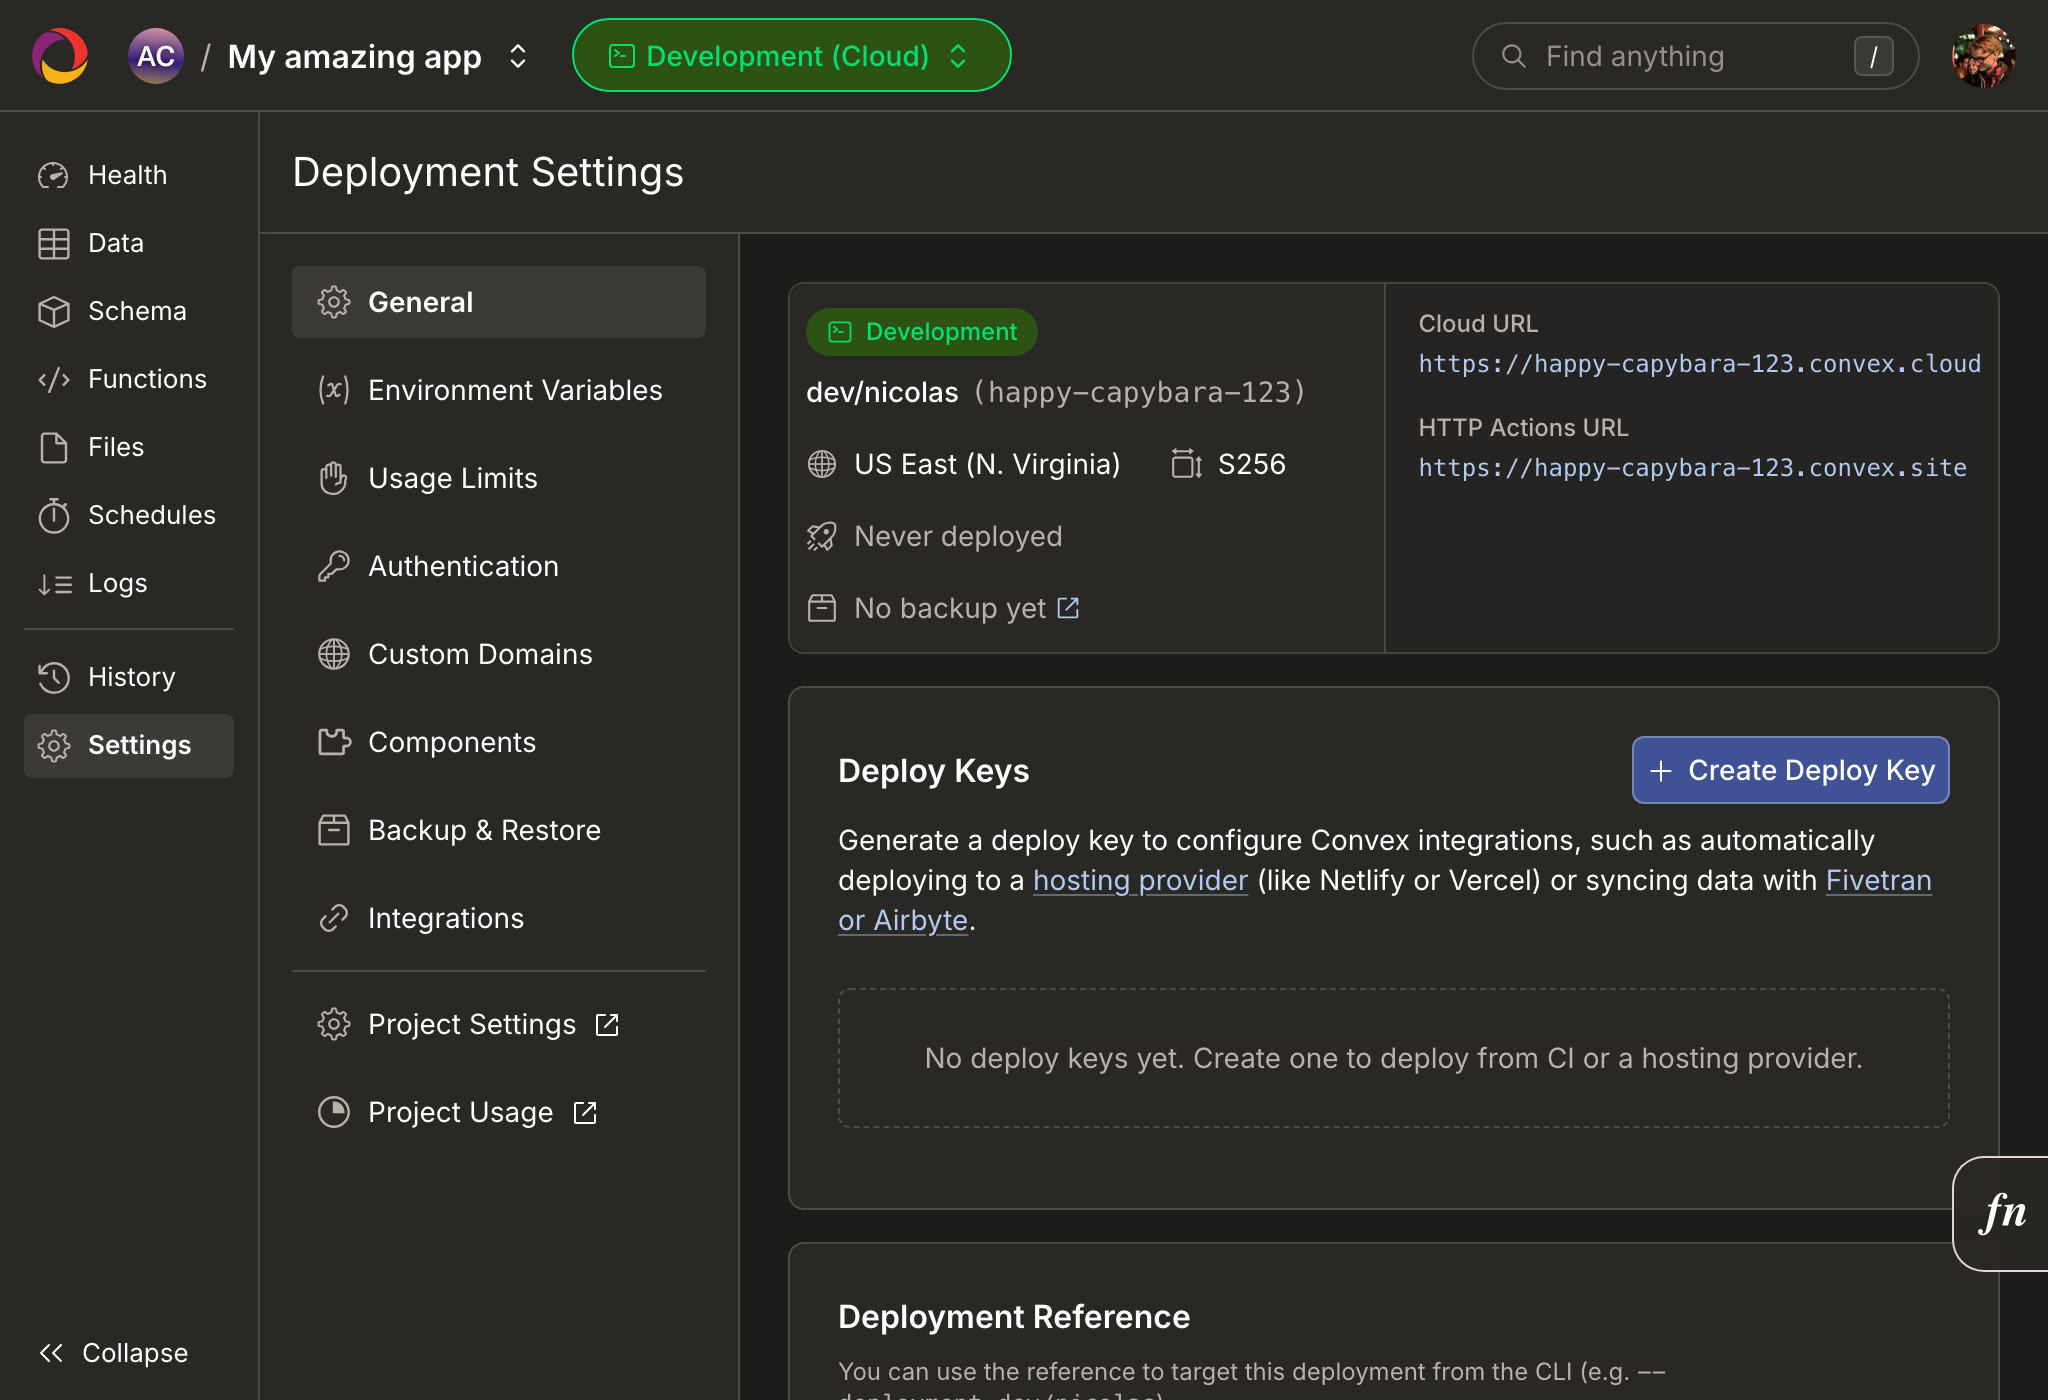
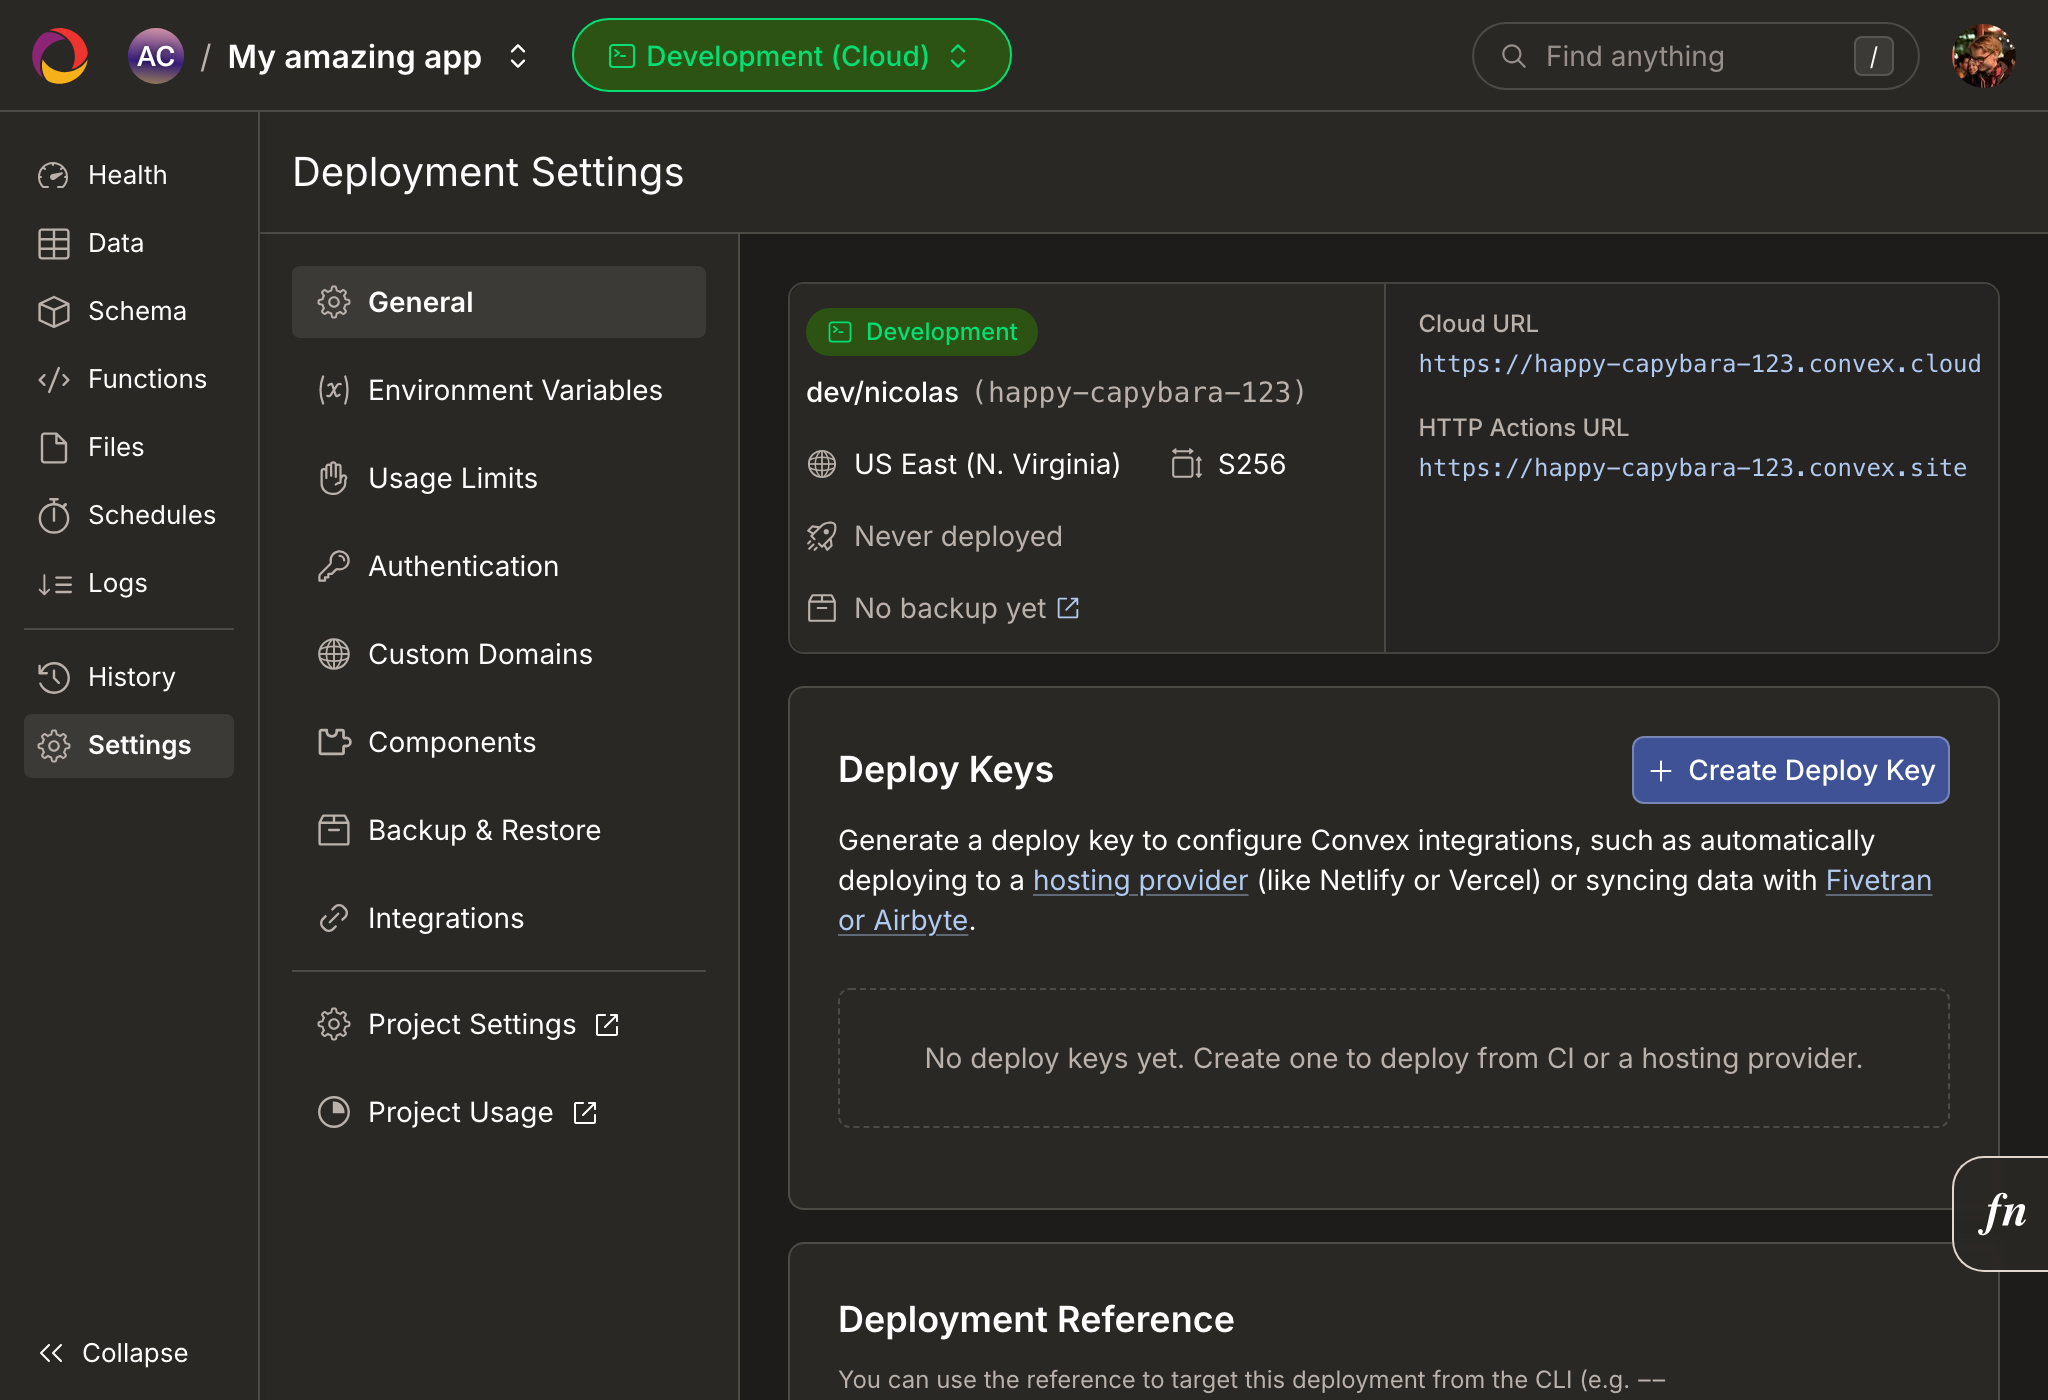
Dashboard: make deployment settings sections h3 for consistency + a11y (#61893)
This fixes an inconsistency in the way this page looks, and also improves accessibility by fixing the title hierarchy.

GitOrigin-RevId: 8e3a91a5ca800e9f54d0e0a3a7469000b30b9ba3

Changed region(s): [[0.4062, 0.9214, 0.8125, 1.0], [0.4062, 0.5221, 0.5, 0.5836]]

diff --git a/npm-packages/dashboard/src/components/deploymentSettings/DeployKeysForDeployment.tsx b/npm-packages/dashboard/src/components/deploymentSettings/DeployKeysForDeployment.tsx
@@ -116,7 +116,7 @@ export function DeployKeysForDeployment() {
     return (
       <div id={DEPLOYMENT_SETTINGS_SECTIONS.deployKeys.id} className="w-full">
         <div className="mb-2 flex w-full items-center justify-between">
-          <h4>Deploy Keys</h4>
+          <h3>Deploy Keys</h3>
         </div>
         <NoPermissionMessage
           message="You do not have permission to view deploy keys in this deployment."
@@ -153,6 +153,7 @@ export function DeployKeysForDeployment() {
       {team && deployment && (
         <DeploymentAccessTokenList
           header="Deploy Keys"
+          headingLevel="h3"
           buttonProps={{
             deploymentType,
             getAdminKey: async (

diff --git a/npm-packages/dashboard/src/components/deploymentSettings/DeploymentAdvancedSettings.tsx b/npm-packages/dashboard/src/components/deploymentSettings/DeploymentAdvancedSettings.tsx
@@ -364,7 +364,7 @@ function TriStateSettingSheet({
 
   return (
     <Sheet id={id}>
-      <h4 className="mb-2">{title}</h4>
+      <h3 className="mb-2">{title}</h3>
       <p className="mb-4 text-xs text-content-secondary">{description}</p>
       <div className="flex flex-col gap-3">
         <Tooltip
@@ -483,7 +483,7 @@ export function DeploymentExpirySheet({
 
   return (
     <Sheet id={DEPLOYMENT_SETTINGS_SECTIONS.deploymentExpiry.id}>
-      <h4 className="mb-2">Deployment Expiry</h4>
+      <h3 className="mb-2">Deployment Expiry</h3>
       <p className="mb-4 text-xs text-content-secondary">
         Set a time at which this deployment will be automatically deleted.
       </p>

diff --git a/npm-packages/dashboard/src/components/deploymentSettings/DeploymentReference.tsx b/npm-packages/dashboard/src/components/deploymentSettings/DeploymentReference.tsx
@@ -103,7 +103,7 @@ export function DeploymentReference({
 
   return (
     <Sheet id={DEPLOYMENT_SETTINGS_SECTIONS.deploymentReference.id}>
-      <h4 className="mb-2">Deployment Reference</h4>
+      <h3 className="mb-2">Deployment Reference</h3>
       <p className="mb-4 text-xs text-content-secondary">
         You can use the reference to target this deployment from the CLI (e.g.{" "}
         <code>--deployment&nbsp;{value ?? "<reference>"}</code>).
